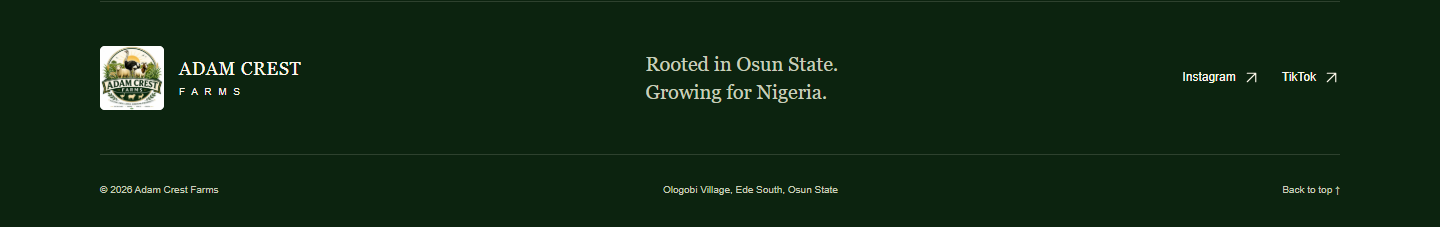
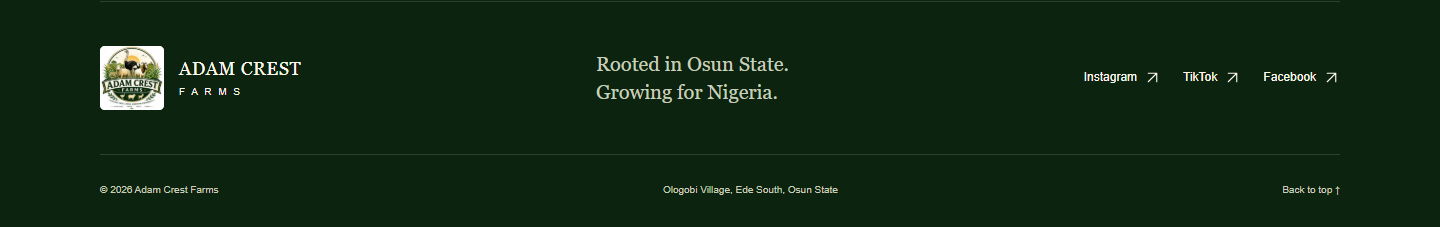
Add confirmed Facebook page to footer

Changed region(s): [[0.4062, 0.37, 0.5938, 0.4626], [0.4062, 0.2467, 0.5938, 0.3392], [0.75, 0.3084, 0.9062, 0.37]]

diff --git a/public/index.html b/public/index.html
@@ -79,6 +79,6 @@
         </div>
       </div></section>
     </main>
-    <footer id="footer" class="site-footer"><div class="wrap"><div class="footer-top"><a class="brand" href="#top" aria-label="Adam Crest Farms home"><img src="assets/brand/adam-crest-farms-logo.jpeg" width="64" height="64" alt="Adam Crest Farms logo"><span aria-hidden="true">ADAM CREST<span class="brand-small">F A R M S</span></span></a><p>Rooted in Osun State.<br>Growing for Nigeria.</p><div class="social-links"><a data-instagram href="https://www.instagram.com/adamcrestfarms/" target="_blank" rel="noopener noreferrer">Instagram <svg class="icon" aria-hidden="true" focusable="false"><use href="#external"/></svg></a><a href="https://www.tiktok.com/@adamcrestfarms" target="_blank" rel="noopener noreferrer">TikTok <svg class="icon" aria-hidden="true" focusable="false"><use href="#external"/></svg></a></div></div><div class="footer-base"><span>© 2026 Adam Crest Farms</span><span>Ologobi Village, Ede South, Osun State</span><a href="#top">Back to top ↑</a></div></div></footer>
+    <footer id="footer" class="site-footer"><div class="wrap"><div class="footer-top"><a class="brand" href="#top" aria-label="Adam Crest Farms home"><img src="assets/brand/adam-crest-farms-logo.jpeg" width="64" height="64" alt="Adam Crest Farms logo"><span aria-hidden="true">ADAM CREST<span class="brand-small">F A R M S</span></span></a><p>Rooted in Osun State.<br>Growing for Nigeria.</p><div class="social-links"><a data-instagram href="https://www.instagram.com/adamcrestfarms/" target="_blank" rel="noopener noreferrer">Instagram <svg class="icon" aria-hidden="true" focusable="false"><use href="#external"/></svg></a><a href="https://www.tiktok.com/@adamcrestfarms" target="_blank" rel="noopener noreferrer">TikTok <svg class="icon" aria-hidden="true" focusable="false"><use href="#external"/></svg></a><a href="https://www.facebook.com/profile.php?id=61596237654943" target="_blank" rel="noopener noreferrer">Facebook <svg class="icon" aria-hidden="true" focusable="false"><use href="#external"/></svg></a></div></div><div class="footer-base"><span>© 2026 Adam Crest Farms</span><span>Ologobi Village, Ede South, Osun State</span><a href="#top">Back to top ↑</a></div></div></footer>
 </body>
 </html>

diff --git a/docs/DESIGN_SPEC.md b/docs/DESIGN_SPEC.md
@@ -4,7 +4,7 @@ Build specification, 10 November 2026. Uses the requested MotionSites specificat
 
 Final review adjustments: the heading has a 90px maximum; the desktop mascot is 330px wide with 35px bottom space; the decorative label behind its head is hidden; the mobile roots title stacks Osun and State. These final values supersede the initial dimensions below where different. See QA.md.
 
-The owner's later annotated review removes the circled hero/farm/enquiry copy, including the hero location strip, repeated positioning/address, form headings, WhatsApp notice and separate Instagram block. The remaining Instagram instruction links directly to the profile. This approved simplification supersedes the original section-copy specification below. The Facebook footer link awaits the exact URL.
+The owner's later annotated review removes the circled hero/farm/enquiry copy, including the hero location strip, repeated positioning/address, form headings, WhatsApp notice and separate Instagram block. The remaining Instagram instruction links directly to the profile. This approved simplification supersedes the original section-copy specification below. The footer includes the exact Facebook page URL supplied by the owner on 12 November 2026.
 
 ## Purpose and scope
 
@@ -42,7 +42,7 @@ Georgia handles all display text, with Times New Roman and serif fallbacks. Aria
 3. Our farm: two columns on a slightly darker cream surface. One typography-led forest panel displays “Osun State / Our roots. Your connection.” with simple decorative field lines. The other contains the supplied positioning and location. Copy describes the four areas of the farm and invites conversation; it makes no unsupported farming-method claims. The address is text, with no fabricated map coordinates or visiting hours.
 4. Questions: three native details disclosures covering availability, collection/delivery and visiting. Answers tell visitors what to confirm with the farm. They do not establish policies or promises.
 5. Enquiries: forest-green section, 96px padding. Left column explains the three steps: choose a category, prepare/copy the enquiry, open Instagram to send it. Show “WhatsApp · Coming soon” as an informational status. Right column is a cream form with a category select, optional location field and optional detail textarea. A submit button prepares a message in a labelled read-only textarea; a copy button copies it with an honest status announcement. An Instagram link remains available even before composing. No remote request occurs on form submission. An empty optional field does not become a placeholder in the finished enquiry.
-6. Footer: logo, name, short positioning, Instagram/TikTok links, local address and return-to-top link. No fabricated contact details or unverified Facebook link.
+6. Footer: logo, name, short positioning, Instagram/TikTok/Facebook links, local address and return-to-top link. Use only owner-supplied social addresses.
 
 ## Motion and responsive behaviour
 

diff --git a/docs/QA.md b/docs/QA.md
@@ -20,9 +20,17 @@ Evidence: [review/report.json](review/report.json).
 
 ## Visual review
 
+### Facebook footer, 12 November 2026
+
+Added the owner's exact Facebook page URL beside Instagram and TikTok. Checked the footer at 1440, 768, 390 and 320 CSS pixels with Microsoft Edge 157.0.4341.46, including direct file opening with JavaScript disabled. All three links remain visible without horizontal overflow and retain 44px-high targets. The Facebook link is keyboard-focusable and has the supplied URL, new-tab target and noopener/noreferrer attributes. No external account was opened.
+
+Visually inspected all four footer captures. The static build and Git whitespace check passed. Earlier full-page and interaction results below remain from 10 November; this bounded link change received a targeted footer review.
+
+Evidence: [footer report](review/facebook-footer-report.json), [desktop footer](review/desktop-footer.png), [mobile footer](review/mobile-footer.png), [768px footer](review/width-768-footer.png), [320px footer](review/width-320-footer.png).
+
 ### Annotated revision, 10 November 2026
 
-Removed every blue-circled element in the supplied hero, farm and enquiry screenshots. Retained the uncircled content, including footer positioning/address and the optional marker on the enquiry-details field. Added spacing before the farm section's remaining contact action. The remaining step-3 Instagram instruction is clickable; the removed contact block has not been reintroduced. Facebook is pending the owner's exact page URL.
+Removed every blue-circled element in the supplied hero, farm and enquiry screenshots. Retained the uncircled content, including footer positioning/address and the optional marker on the enquiry-details field. Added spacing before the farm section's remaining contact action. The remaining step-3 Instagram instruction is clickable; the removed contact block has not been reintroduced. The owner supplied the Facebook page URL on 12 November 2026; see the footer review above.
 
 The existing five-width browser review passed again, including the enquiry interactions, reduced motion, no-JavaScript fallback and zero common WCAG A/AA findings. Visually inspected the revised desktop hero, farm and enquiry sections, mobile enquiry, and both footer layouts. Updated screenshots are in review/. Earlier screenshots are retained in Git history.
 

diff --git a/docs/BRAND_BRIEF.md b/docs/BRAND_BRIEF.md
@@ -14,6 +14,7 @@ Prepared 8 November 2026 from the owner's supplied business details, approved co
 | Instagram | @adamcrestfarms |
 | TikTok | @adamcrestfarms |
 | Facebook page name | Adam Crest Farms |
+| Facebook page URL | https://www.facebook.com/profile.php?id=61596237654943 (owner-supplied, 12 November 2026) |
 
 Preferred positioning: **“Rooted in Osun State, but growing for Nigeria.”**
 
@@ -29,7 +30,7 @@ The owner describes quality products and healthy, well-fed livestock. These are 
 
 ## Details still to establish during the website build
 
-Current products and availability; final phone/WhatsApp or email; exact Facebook page URL; delivery/collection arrangements; owner-approved farm photographs; hosting and domain access.
+Current products and availability; final phone/WhatsApp or email; delivery/collection arrangements; owner-approved farm photographs; hosting and domain access.
 
 Do not invent missing details, prices, opening hours, certifications, testimonials, awards or fulfilment promises. Domain and social identities above were supplied by the owner; this repository setup did not verify live accounts, domain control or website availability.
 
@@ -45,7 +46,7 @@ Do not invent missing details, prices, opening hours, certifications, testimonia
 
 On 10 November 2026, the owner requested removal of the blue-circled labels, repeated location/positioning text, secondary hero enquiry link, form headings, location optional marker, WhatsApp notice, form explanation and separate Instagram contact block. Only the location field's visible optional marker was removed; its input remains optional. The remaining step-3 Instagram text links to the supplied profile so the enquiry flow still works.
 
-The owner also requested Facebook in the footer. The exact Facebook page URL is still required; the saved records contain only the page name, and a public search did not establish a reliable match. Do not guess the address from the other social handles.
+The owner also requested Facebook in the footer and supplied the exact page URL on 12 November 2026: https://www.facebook.com/profile.php?id=61596237654943. It is now included beside Instagram and TikTok.
 
 ## Source context
 

diff --git a/README.md b/README.md
@@ -2,7 +2,7 @@
 
 A self-contained, responsive website for exploring the farm and making product enquiries. Implemented and locally reviewed on 10 November 2026. HTML, CSS and browser JavaScript, with no runtime packages, web fonts or external asset requests.
 
-**Status:** local preview ready. Nothing has been published or deployed; no GitHub remote is configured. The owner's annotated copy removals have been applied and reviewed on desktop/mobile. WhatsApp stays hidden until a number is supplied. Instagram is linked in the remaining enquiry steps and footer. Visitors prepare an enquiry locally, copy it, and send it themselves. Adding Facebook to the footer is pending the exact page URL from the owner; the records currently contain only its page name.
+**Status:** local preview ready. Nothing has been published or deployed; no GitHub remote is configured. The owner's annotated copy removals have been applied and reviewed on desktop/mobile. WhatsApp stays hidden until a number is supplied. Instagram is linked in the remaining enquiry steps and footer. Visitors prepare an enquiry locally, copy it, and send it themselves. The footer includes Instagram, TikTok and the Facebook page supplied by the owner on 12 November 2026.
 
 ## Open the preview
 
@@ -18,7 +18,7 @@ npm test           # Four enquiry-formatting tests using Node's built-in runner
 
 No package installation is needed for these three commands. The server binds only to this computer; stop it with Ctrl+C. Optional PORT changes the server port. No secrets, services or parent-workspace files are required.
 
-The preview does not submit or store enquiries, process orders/payments, or include analytics. External Instagram and TikTok links open only when a visitor follows them.
+The preview does not submit or store enquiries, process orders/payments, or include analytics. External Instagram, TikTok and Facebook links open only when a visitor follows them.
 
 ## Browser and accessibility review
 
